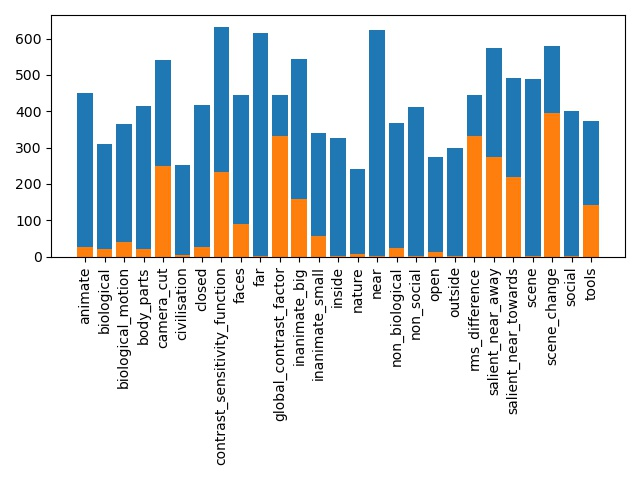
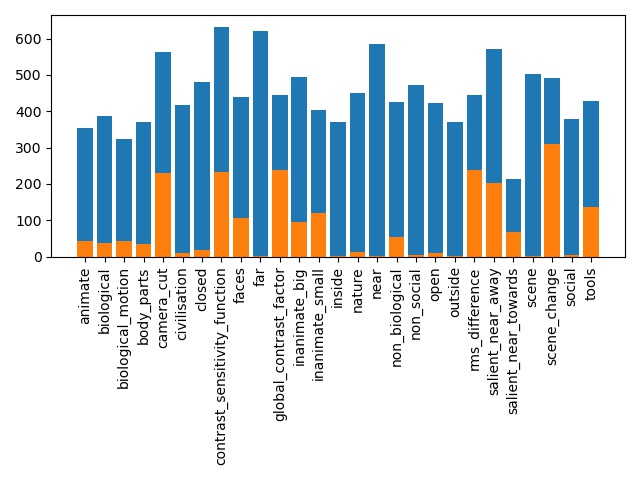
efficiency testing and evaluation

diff --git a/test_efficiency_cons.py b/test_efficiency_cons.py
@@ -1,0 +1,72 @@
+# -*- coding: utf-8 -*-
+"""
+Trying to work out why sums of columns do funny things to efficiency
+
+@author: Rhodri Cusack
+"""
+import numpy as np
+from single_column_efficiency import efficiency_calc
+from matplotlib import pyplot as plt
+import pandas as pd
+from nilearn.glm.first_level import make_first_level_design_matrix
+from nilearn.plotting import plot_design_matrix
+
+
+# Make event prob dist
+ntp=64
+des=[]
+des.append((np.arange(ntp)==16).astype(np.float)) # wimpy column!
+des.append((np.arange(ntp)<32).astype(np.float)) # really powerful column!
+ndes = len(des)
+
+# Make events
+events={}
+X=[]
+fig=plt.figure()
+gs = fig.add_gridspec(ndes, 2)
+events=pd.DataFrame()
+
+for axind in range(ndes):
+    ax=fig.add_subplot(gs[axind,0])
+    r=np.random.uniform(size=(ntp,1))
+    for t in range(ntp):
+        if r[t]<des[axind][t]:
+            ev={'onset':t+axind*0.001,'duration':1,'trial_type':f'cond{axind}'}
+            events = events.append(ev, ignore_index=True)
+all_trial_type=['cond0','cond1']
+
+X=make_first_level_design_matrix(np.arange(ntp), events=events, hrf_model='spm', drift_model=None)
+
+events['trial_type']='cond_both'
+Xboth=make_first_level_design_matrix(np.arange(ntp), events=events, hrf_model='spm', drift_model=None)
+print(events)
+X[all_trial_type]= (X[all_trial_type] - X[all_trial_type].mean()) / X[all_trial_type].std()
+Xboth['cond_both']= (Xboth['cond_both'] - Xboth['cond_both'].mean()) / Xboth['cond_both'].std()
+
+
+print(X)
+
+# Now contrast - first col, second col, both together
+con=np.zeros((3,1))
+con[:2,0]=[1,0]
+print(efficiency_calc(X,con))
+
+con[:2,0]=[0,1]
+print(efficiency_calc(X,con))
+
+con=np.zeros((3,1))
+con[:2,0]=[1,1]
+print(efficiency_calc(X,con))
+
+fig,ax = plt.subplots(nrows=2)
+
+ax[0].plot(X)
+# And on regressor with events combined
+con=np.zeros((2,1))
+con[0]=[1]
+print(efficiency_calc(Xboth,con))
+ax[1].plot(Xboth)
+
+plt.savefig('test_efficiency_cons_desmat.jpg')
+
+

diff --git a/show_make_first_level_design_matrix_oddity.py b/show_make_first_level_design_matrix_oddity.py
@@ -1,0 +1,21 @@
+
+from nilearn.glm.first_level import make_first_level_design_matrix
+import pandas as pd
+import numpy as np
+from matplotlib import pyplot as plt
+
+
+data = [[0, 1, 'cond1'], [0, 1, 'cond1'], [10, 1, 'cond1']] # duplicate event at 0 secs not counted
+events = pd.DataFrame(data, columns=['onset','duration','trial_type'])
+X0 = make_first_level_design_matrix(np.arange(20),events=events)
+
+print(events.duplicated().any())
+
+data = [[0, 1, 'cond1'], [0.001, 1, 'cond1'], [10, 1, 'cond1']] # duplicate event ~ 0 secs is now counted
+events = pd.DataFrame(data, columns=['onset','duration','trial_type'])
+X1 = make_first_level_design_matrix(np.arange(20),events=events)
+
+fig, ax = plt.subplots(nrows=2)
+ax[0].plot(X0)
+ax[1].plot(X1)
+plt.savefig('show_make_first_level_design_matrix_oddity.jpg')

diff --git a/test_efficiency_calc.py b/test_efficiency_calc.py
@@ -1,3 +1,10 @@
+# -*- coding: utf-8 -*-
+"""
+Testing efficiency by recreating figure http://imaging.mrc-cbu.cam.ac.uk/images/eff_friston.gif on this page https://imaging.mrc-cbu.cam.ac.uk/imaging/DesignEfficiency
+
+@author: Rhodri Cusack
+"""
+
 import numpy as np
 from single_column_efficiency import efficiency_calc
 from matplotlib import pyplot as plt
@@ -5,7 +12,6 @@ import pandas as pd
 from nilearn.glm.first_level import make_first_level_design_matrix
 from nilearn.plotting import plot_design_matrix
 
-# Comparing to figure http://imaging.mrc-cbu.cam.ac.uk/images/eff_friston.gif on this page https://imaging.mrc-cbu.cam.ac.uk/imaging/DesignEfficiency
 
 # Make event prob dist
 ntp=64

diff --git a/single_column_efficiency.py b/single_column_efficiency.py
@@ -7,7 +7,7 @@ from nilearn.plotting import plot_design_matrix
 
 
 def efficiency_calc(X, contrasts):
-    '''Calculate efficiency for a given design matrix (i.e a given video) '''     
+    '''Calculate efficiency for a given design matrix '''     
     #Singular matrix - no solution to inverse 
     invXtX = np.linalg.pinv(X.T@X)
     efficiency = 1.0 / np.trace(( contrasts.T@invXtX@contrasts))
